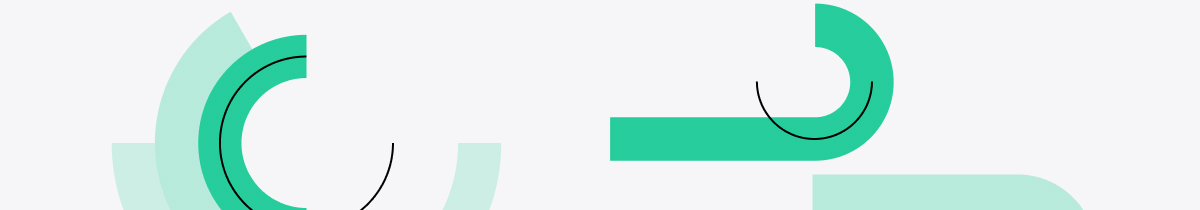
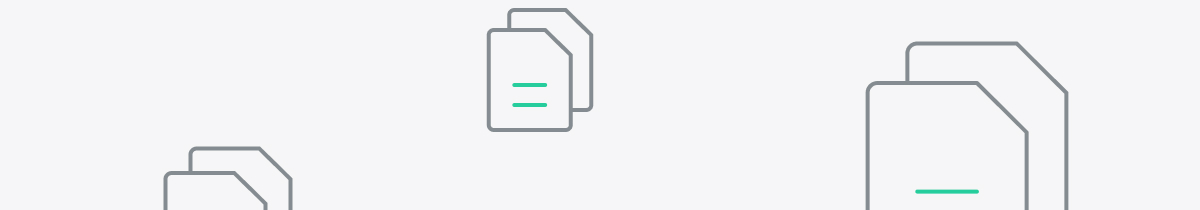
New keyvisual

Changed region(s): [[0.4008, 0.0, 0.925, 1.0], [0.0925, 0.0571, 0.3083, 1.0], [0.37, 0.6571, 0.4317, 1.0]]

diff --git a/build_production/confirmation.html b/build_production/confirmation.html
@@ -1,5 +1,6 @@
 <!DOCTYPE html>
 <html lang="en" xmlns:v="urn:schemas-microsoft-com:vml">
+
 <head>
   <meta charset="utf-8">
   <meta name="x-apple-disable-message-reformatting">
@@ -24,21 +25,26 @@
     .hover-important-text-decoration-underline:hover {
       text-decoration: underline !important
     }
+
     @media (prefers-color-scheme: dark) {
       .dark-bg-slate-1100 {
         background-color: #1A2024 !important
       }
+
       .dark-bg-slate-900 {
         background-color: #48535B !important
       }
+
       .dark-text-white {
         color: #fff !important
       }
     }
+
     @media (max-width: 600px) {
       .sm-p-6 {
         padding: 24px !important
       }
+
       .sm-py-7 {
         padding-top: 28px !important;
         padding-bottom: 28px !important
@@ -46,52 +52,93 @@
     }
   </style>
 </head>
+
 <body style="margin: 0; width: 100%; padding: 0; -webkit-font-smoothing: antialiased; word-break: break-word">
   <div style="display: none">
     Wir haben Ihr Anliegen bearbeitet
-    &#8199;&#65279;&#847; &#8199;&#65279;&#847; &#8199;&#65279;&#847; &#8199;&#65279;&#847; &#8199;&#65279;&#847; &#8199;&#65279;&#847; &#8199;&#65279;&#847; &#8199;&#65279;&#847; &#8199;&#65279;&#847; &#8199;&#65279;&#847; &#8199;&#65279;&#847; &#8199;&#65279;&#847; &#8199;&#65279;&#847; &#8199;&#65279;&#847; &#8199;&#65279;&#847; &#8199;&#65279;&#847; &#8199;&#65279;&#847; &#8199;&#65279;&#847; &#8199;&#65279;&#847; &#8199;&#65279;&#847; &#8199;&#65279;&#847; &#8199;&#65279;&#847; &#8199;&#65279;&#847; &#8199;&#65279;&#847; &#8199;&#65279;&#847; &#8199;&#65279;&#847; &#8199;&#65279;&#847; &#8199;&#65279;&#847; &#8199;&#65279;&#847; &#8199;&#65279;&#847; &#8199;&#65279;&#847; &#8199;&#65279;&#847; &#8199;&#65279;&#847; &#8199;&#65279;&#847; &#8199;&#65279;&#847; &#8199;&#65279;&#847; &#8199;&#65279;&#847; &#8199;&#65279;&#847; &#8199;&#65279;&#847; &#8199;&#65279;&#847; &#8199;&#65279;&#847; &#8199;&#65279;&#847; &#8199;&#65279;&#847; &#8199;&#65279;&#847; &#8199;&#65279;&#847; &#8199;&#65279;&#847; &#8199;&#65279;&#847; &#8199;&#65279;&#847; &#8199;&#65279;&#847; &#8199;&#65279;&#847; &#8199;&#65279;&#847; &#8199;&#65279;&#847; &#8199;&#65279;&#847; &#8199;&#65279;&#847; &#8199;&#65279;&#847; &#8199;&#65279;&#847; &#8199;&#65279;&#847; &#8199;&#65279;&#847; &#8199;&#65279;&#847; &#8199;&#65279;&#847; &#8199;&#65279;&#847; &#8199;&#65279;&#847; &#8199;&#65279;&#847; &#8199;&#65279;&#847; &#8199;&#65279;&#847; &#8199;&#65279;&#847; &#8199;&#65279;&#847; &#8199;&#65279;&#847; &#8199;&#65279;&#847; &#8199;&#65279;&#847; &#8199;&#65279;&#847; &#8199;&#65279;&#847; &#8199;&#65279;&#847; &#8199;&#65279;&#847; &#8199;&#65279;&#847; &#8199;&#65279;&#847; &#8199;&#65279;&#847; &#8199;&#65279;&#847; &#8199;&#65279;&#847; &#8199;&#65279;&#847; &#8199;&#65279;&#847; &#8199;&#65279;&#847; &#8199;&#65279;&#847; &#8199;&#65279;&#847; &#8199;&#65279;&#847; &#8199;&#65279;&#847; &#8199;&#65279;&#847; &#8199;&#65279;&#847; &#8199;&#65279;&#847; &#8199;&#65279;&#847; &#8199;&#65279;&#847; &#8199;&#65279;&#847; &#8199;&#65279;&#847; &#8199;&#65279;&#847; &#8199;&#65279;&#847; &#8199;&#65279;&#847; &#8199;&#65279;&#847; &#8199;&#65279;&#847; &#8199;&#65279;&#847; &#8199;&#65279;&#847; &#8199;&#65279;&#847; &#8199;&#65279;&#847; &#8199;&#65279;&#847; &#8199;&#65279;&#847; &#8199;&#65279;&#847; &#8199;&#65279;&#847; &#8199;&#65279;&#847; &#8199;&#65279;&#847; &#8199;&#65279;&#847; &#8199;&#65279;&#847; &#8199;&#65279;&#847; &#8199;&#65279;&#847; &#8199;&#65279;&#847; &#8199;&#65279;&#847; &#8199;&#65279;&#847; &#8199;&#65279;&#847; &#8199;&#65279;&#847; &#8199;&#65279;&#847; &#8199;&#65279;&#847; &#8199;&#65279;&#847; &#8199;&#65279;&#847; &#8199;&#65279;&#847; &#8199;&#65279;&#847; &#8199;&#65279;&#847; &#8199;&#65279;&#847; &#8199;&#65279;&#847; &#8199;&#65279;&#847; &#8199;&#65279;&#847; &#8199;&#65279;&#847; &#8199;&#65279;&#847; &#8199;&#65279;&#847; &#8199;&#65279;&#847; &#8199;&#65279;&#847; &#8199;&#65279;&#847; &#8199;&#65279;&#847; &#8199;&#65279;&#847; &#8199;&#65279;&#847; &#8199;&#65279;&#847; &#8199;&#65279;&#847; &#8199;&#65279;&#847; &#8199;&#65279;&#847; &#8199;&#65279;&#847; &#8199;&#65279;&#847; &#8199;&#65279;&#847; &#8199;&#65279;&#847; &#8199;&#65279;&#847; &#8199;&#65279;&#847; &#8199;&#65279;&#847; &#8199;&#65279;&#847; &#8199;&#65279;&#847;
+    &#8199;&#65279;&#847; &#8199;&#65279;&#847; &#8199;&#65279;&#847; &#8199;&#65279;&#847; &#8199;&#65279;&#847;
+    &#8199;&#65279;&#847; &#8199;&#65279;&#847; &#8199;&#65279;&#847; &#8199;&#65279;&#847; &#8199;&#65279;&#847;
+    &#8199;&#65279;&#847; &#8199;&#65279;&#847; &#8199;&#65279;&#847; &#8199;&#65279;&#847; &#8199;&#65279;&#847;
+    &#8199;&#65279;&#847; &#8199;&#65279;&#847; &#8199;&#65279;&#847; &#8199;&#65279;&#847; &#8199;&#65279;&#847;
+    &#8199;&#65279;&#847; &#8199;&#65279;&#847; &#8199;&#65279;&#847; &#8199;&#65279;&#847; &#8199;&#65279;&#847;
+    &#8199;&#65279;&#847; &#8199;&#65279;&#847; &#8199;&#65279;&#847; &#8199;&#65279;&#847; &#8199;&#65279;&#847;
+    &#8199;&#65279;&#847; &#8199;&#65279;&#847; &#8199;&#65279;&#847; &#8199;&#65279;&#847; &#8199;&#65279;&#847;
+    &#8199;&#65279;&#847; &#8199;&#65279;&#847; &#8199;&#65279;&#847; &#8199;&#65279;&#847; &#8199;&#65279;&#847;
+    &#8199;&#65279;&#847; &#8199;&#65279;&#847; &#8199;&#65279;&#847; &#8199;&#65279;&#847; &#8199;&#65279;&#847;
+    &#8199;&#65279;&#847; &#8199;&#65279;&#847; &#8199;&#65279;&#847; &#8199;&#65279;&#847; &#8199;&#65279;&#847;
+    &#8199;&#65279;&#847; &#8199;&#65279;&#847; &#8199;&#65279;&#847; &#8199;&#65279;&#847; &#8199;&#65279;&#847;
+    &#8199;&#65279;&#847; &#8199;&#65279;&#847; &#8199;&#65279;&#847; &#8199;&#65279;&#847; &#8199;&#65279;&#847;
+    &#8199;&#65279;&#847; &#8199;&#65279;&#847; &#8199;&#65279;&#847; &#8199;&#65279;&#847; &#8199;&#65279;&#847;
+    &#8199;&#65279;&#847; &#8199;&#65279;&#847; &#8199;&#65279;&#847; &#8199;&#65279;&#847; &#8199;&#65279;&#847;
+    &#8199;&#65279;&#847; &#8199;&#65279;&#847; &#8199;&#65279;&#847; &#8199;&#65279;&#847; &#8199;&#65279;&#847;
+    &#8199;&#65279;&#847; &#8199;&#65279;&#847; &#8199;&#65279;&#847; &#8199;&#65279;&#847; &#8199;&#65279;&#847;
+    &#8199;&#65279;&#847; &#8199;&#65279;&#847; &#8199;&#65279;&#847; &#8199;&#65279;&#847; &#8199;&#65279;&#847;
+    &#8199;&#65279;&#847; &#8199;&#65279;&#847; &#8199;&#65279;&#847; &#8199;&#65279;&#847; &#8199;&#65279;&#847;
+    &#8199;&#65279;&#847; &#8199;&#65279;&#847; &#8199;&#65279;&#847; &#8199;&#65279;&#847; &#8199;&#65279;&#847;
+    &#8199;&#65279;&#847; &#8199;&#65279;&#847; &#8199;&#65279;&#847; &#8199;&#65279;&#847; &#8199;&#65279;&#847;
+    &#8199;&#65279;&#847; &#8199;&#65279;&#847; &#8199;&#65279;&#847; &#8199;&#65279;&#847; &#8199;&#65279;&#847;
+    &#8199;&#65279;&#847; &#8199;&#65279;&#847; &#8199;&#65279;&#847; &#8199;&#65279;&#847; &#8199;&#65279;&#847;
+    &#8199;&#65279;&#847; &#8199;&#65279;&#847; &#8199;&#65279;&#847; &#8199;&#65279;&#847; &#8199;&#65279;&#847;
+    &#8199;&#65279;&#847; &#8199;&#65279;&#847; &#8199;&#65279;&#847; &#8199;&#65279;&#847; &#8199;&#65279;&#847;
+    &#8199;&#65279;&#847; &#8199;&#65279;&#847; &#8199;&#65279;&#847; &#8199;&#65279;&#847; &#8199;&#65279;&#847;
+    &#8199;&#65279;&#847; &#8199;&#65279;&#847; &#8199;&#65279;&#847; &#8199;&#65279;&#847; &#8199;&#65279;&#847;
+    &#8199;&#65279;&#847; &#8199;&#65279;&#847; &#8199;&#65279;&#847; &#8199;&#65279;&#847; &#8199;&#65279;&#847;
+    &#8199;&#65279;&#847; &#8199;&#65279;&#847; &#8199;&#65279;&#847; &#8199;&#65279;&#847; &#8199;&#65279;&#847;
+    &#8199;&#65279;&#847; &#8199;&#65279;&#847; &#8199;&#65279;&#847; &#8199;&#65279;&#847; &#8199;&#65279;&#847;
+    &#8199;&#65279;&#847; &#8199;&#65279;&#847; &#8199;&#65279;&#847; &#8199;&#65279;&#847; &#8199;&#65279;&#847;
   </div>
   <div role="article" aria-roledescription="email" aria-label="Anliegen abgeschlossen" lang="en">
-    <div class="dark-bg-slate-1100" style="background-color: #EAEBEC; font-family: PostGroteskNormal, Helvetica, Arial, ui-sans-serif, system-ui, -apple-system, 'Segoe UI', sans-serif; font-weight: 300">
+    <div class="dark-bg-slate-1100"
+      style="background-color: #EAEBEC; font-family: PostGroteskNormal, Helvetica, Arial, ui-sans-serif, system-ui, -apple-system, 'Segoe UI', sans-serif; font-weight: 300">
       <table align="center" cellpadding="0" cellspacing="0" role="presentation">
         <tr>
           <td style="width: 600px; max-width: 100%">
             <div class="sm-p-6 sm-py-7" style="background-color: #fff; padding: 36px 48px; text-align: left">
-              <a href="https://www.pronovo.ch">
-                <img src="images/pronovo-logo.png" width="142" height="27" alt="Pronovo" style="max-width: 100%; vertical-align: middle; line-height: 1; border: 0">
+              <a href="https://www.pronovo.ch" class="dark-text-white"
+                style="font-size: 24px; font-weight: 300; line-height: 54px; color: #5C656D; text-decoration: none">
+                <img src="http://pronovo.redefine.studio/images/pronovo-logo.png" width="142" height="27" alt="Pronovo"
+                  style="max-width: 100%; vertical-align: middle; line-height: 1; border: 0">
               </a>
             </div>
             <table style="width: 100%;" cellpadding="0" cellspacing="0" role="presentation">
               <tr>
-                <td class="sm-p-6 dark-bg-slate-900" style="background-color: #F6F6F7; padding: 48px; font-size: 19px; color: #000">
-                  <h1 class="dark-text-white" style="margin: 0; padding: 0; font-size: 42px; font-weight: 300; line-height: 54px; color: #000">
+                <td class="sm-p-6 dark-bg-slate-900"
+                  style="background-color: #F6F6F7; padding: 48px; font-size: 19px; color: #000">
+                  <h1 class="dark-text-white"
+                    style="margin: 0; padding: 0; font-size: 42px; font-weight: 300; line-height: 54px; color: #000">
                     Anliegen abgeschlossen
                   </h1>
-                  <div role="separator" style="background-color: #D6D9DA; height: 1px; line-height: 1px; margin: 24px 0">&zwj;</div>
+                  <div role="separator"
+                    style="background-color: #D6D9DA; height: 1px; line-height: 1px; margin: 24px 0">&zwj;</div>
                   <p class="dark-text-white" style="margin: 24px 0 0; line-height: 27px; color: #000">
                     Guten Tag
                   </p>
-                  <p class="dark-text-white" style="margin: 24px 0 0; line-height: 27px; color: #000"> Wir haben Ihr Anliegen mit der Referenz
-                    <a href="#" class="hover-important-text-decoration-underline" style="font-weight: 700; color: #26CD9C; text-decoration: none">
+                  <p class="dark-text-white" style="margin: 24px 0 0; line-height: 27px; color: #000"> Wir haben Ihr
+                    Anliegen mit der Referenz
+                    <a href="#" class="hover-important-text-decoration-underline"
+                      style="font-weight: 700; color: #26CD9C; text-decoration: none">
                       Mustername
-                    </a> und dem
-                    Betreff
-                    <a href="#" class="hover-important-text-decoration-underline" style="font-weight: 700; color: #26CD9C; text-decoration: none;">
+                    </a> und dem Betreff
+                    <a href="#" class="hover-important-text-decoration-underline"
+                      style="font-weight: 700; color: #26CD9C; text-decoration: none;">
                       Musterbetreff
-                    </a> bearbeitet
-                    und geschlossen. Für weitere Fragen in dieser Angelegenheit, geben Sie bitte die
-                    Referenznummer an. Wir möchten uns ständig verbessern. Helfen Sie uns dabei, indem Sie Ihr
-                    Feedback mit uns teilen:
+                    </a> bearbeitet und geschlossen.
                   </p>
+                  <div role="separator"
+                    style="background-color: #D6D9DA; height: 1px; line-height: 1px; margin: 32px 0;">&zwj;</div>
+                  <p class="dark-text-white" style="margin: 24px 0 0; line-height: 27px; color: #000"> Für weitere
+                    Fragen in dieser Angelegenheit, geben Sie bitte die Referenznummer an. Wir möchten uns
+                    ständig verbessern. Helfen Sie uns dabei, indem Sie Ihr Feedback mit uns teilen:</p>
                   <div role="separator">&zwj;</div>
                   <div style="margin: 0; width: 100%; text-align: center"> <!--[if mso]>
 		<v:roundrect arcsize="50%" style="height:48px; mso-wrap-style: none;" stroke="f" fillcolor="#4570B9">
 		<![endif]-->
-                    <a href="#" style="display: inline-block; border-radius: 24px; background-color: #4570B9; padding: 16px 36px; font-size: 14px; font-weight: 600; text-transform: uppercase; line-height: 1; color: #fff; box-shadow: 0px 5px 10px rgba(0, 0, 0, 0.1); text-decoration: none">
+                    <a href="#"
+                      style="display: inline-block; border-radius: 24px; background-color: #4570B9; padding: 16px 36px; font-size: 14px; font-weight: 600; text-transform: uppercase; line-height: 1; color: #fff; box-shadow: 0px 5px 10px rgba(0, 0, 0, 0.1); text-decoration: none">
                       <!--[if mso]>
 				<i style="mso-font-width: -100%; letter-spacing: 32px; mso-text-raise: 17px" hidden>&nbsp;</i>
 			<![endif]-->
-                      <span style="mso-text-raise: 15px ">				Zur Umfrage			</span>
+                      <span style="mso-text-raise: 15px "> Zur Umfrage </span>
                       <!--[if mso]>
 				<i style="mso-font-width: -100%; letter-spacing: 32px;" hidden>&nbsp;</i>
 			<![endif]-->
@@ -104,11 +151,12 @@
                   <div style="margin: 0; width: 100%; text-align: center;"> <!--[if mso]>
 		<v:roundrect arcsize="50%" style="height:48px; mso-wrap-style: none;" stroke="f" fillcolor="#4570B9">
 		<![endif]-->
-                    <a href="#" style="margin-right: 8px; display: inline-block; border-radius: 24px; background-color: #fff; padding: 16px 36px; font-size: 14px; font-weight: 600; text-transform: uppercase; line-height: 1; color: #333F48; box-shadow: 0px 5px 10px rgba(0, 0, 0, 0.1); text-decoration: none">
+                    <a href="#"
+                      style="margin-right: 8px; display: inline-block; border-radius: 24px; background-color: #fff; padding: 16px 36px; font-size: 14px; font-weight: 600; text-transform: uppercase; line-height: 1; color: #333F48; box-shadow: 0px 5px 10px rgba(0, 0, 0, 0.1); text-decoration: none">
                       <!--[if mso]>
 			<i style="mso-font-width: -100%; letter-spacing: 32px; mso-text-raise: 17px;" hidden>&nbsp;</i>
 			<![endif]-->
-                      <span style="mso-text-raise: 15px ">				Zweiter button			</span>
+                      <span style="mso-text-raise: 15px "> Zweiter button </span>
                       <!--[if mso]>
 			<i style="mso-font-width: -100%; letter-spacing: 32px;" hidden>&nbsp;</i>
 			<![endif]-->
@@ -117,31 +165,79 @@
 			<![endif]-->
                     </a>
                   </div>
-                  <p class="dark-text-white" style="margin: 24px 0 0; line-height: 27px; color: #000"> Freundliche Grüsse<br>
+                  <div role="separator"
+                    style="background-color: #D6D9DA; height: 1px; line-height: 1px; margin: 32px 0;">&zwj;</div>
+                  <p class="dark-text-white" style="margin: 24px 0 0; line-height: 27px; color: #000"> Der/die
+                    verantwortliche Netzbetreiber*in Musterfirma wurde gleichzeitig per Mail gebeten, die
+                    notwendigen Daten (Messpunkte, etc.) zu ergänzen, damit die Beglaubigung Ihrerseits erfolgen kann.
+                  </p>
+                  <div style="margin: 0; padding: 0;">
+                    <ul type="disc" style="margin-left: 24px; margin-right: 24px; padding-left: 0; padding-right: 0">
+                      <li class="dark-text-white"
+                        style="margin-bottom: 12px; line-height: 27px; color: #000; list-style-image: url('http://pronovo.redefine.studio/images/bullet.png')">
+                        <span>
+                          Listeneintrag 1
+                        </span>
+                      </li>
+                      <li class="dark-text-white"
+                        style="margin-bottom: 12px; line-height: 27px; color: #000; list-style-image: url('http://pronovo.redefine.studio/images/bullet.png')">
+                        <span>
+                          Listeneintrag 2
+                        </span>
+                      </li>
+                      <li class="dark-text-white"
+                        style="margin-bottom: 12px; line-height: 27px; color: #000; list-style-image: url('http://pronovo.redefine.studio/images/bullet.png')">
+                        <span>
+                          Listeneintrag 3 mit
+                          <a href="#" class="hover-important-text-decoration-underline"
+                            style="font-weight: 700; color: #26CD9C; text-decoration: none;">
+                            Dokument
+                          </a>
+                        </span>
+                      </li>
+                      <li class="dark-text-white"
+                        style="margin-bottom: 12px; line-height: 27px; color: #000; list-style-image: url('http://pronovo.redefine.studio/images/bullet.png')">
+                        <span>
+                          Listeneintrag 4
+                        </span>
+                      </li>
+                    </ul>
+                  </div>
+                  <div role="separator"
+                    style="background-color: #D6D9DA; height: 1px; line-height: 1px; margin: 32px 0;">&zwj;</div>
+                  <p class="dark-text-white" style="margin: 24px 0 0; line-height: 27px; color: #000"> Freundliche
+                    Grüsse<br>
                     Pronovo AG</p>
                 </td>
               </tr>
             </table>
             <table style="width: 100%;" cellpadding="0" cellspacing="0" role="presentation">
               <tr>
-                <td class="dark-bg-slate-900" style="background-color: #F6F6F7; font-size: 19px; color: #000">
-                  <div>
-                    <img src="images/pronovo-keyvisual-2.jpg" width="600" alt style="max-width: 100%; vertical-align: middle; line-height: 1; border: 0;">
-                  </div>
+                <td class="dark-bg-slate-900"
+                  style="width: 100%; overflow: hidden; background-color: #F6F6F7; font-size: 19px; color: #000">
+                  <img src="http://pronovo.redefine.studio/images/pronovo-keyvisual-2.png" width="600" alt
+                    style="max-width: 100%; vertical-align: middle; line-height: 1; border: 0;">
                 </td>
               </tr>
             </table>
-            <table class="sm-p-6" style="width: 100%; background-color: #333F48; padding: 36px 48px" cellpadding="0" cellspacing="0" role="presentation">
+            <table class="sm-p-6" style="width: 100%; background-color: #333F48; padding: 36px 48px" cellpadding="0"
+              cellspacing="0" role="presentation">
               <tr>
-                <td style="text-align: left; font-size: 16px; color: #fff">
-                  <p>Pronovo AG, Dammstrasse 3, CH–5070 Frick</p>
-                  <p>
-                    <a href="tel:+41848014014" class="hover-important-text-decoration-underline" style="margin-right: 8px; color: #fff; text-decoration: none;">+41 848 014 014</a>
-                    <a href="https://www.pronovo.ch" class="hover-important-text-decoration-underline" style="margin-right: 8px; color: #fff; text-decoration: none;">www.pronovo.ch</a>
+                <td style="text-align: left; font-size: 16px; line-height: 27px; color: #fff">
+                  <p>Pronovo AG, Dammstrasse 3, CH–5070 Frick, <br>
+                    <a href="tel:+41848014014" class="hover-important-text-decoration-underline"
+                      style="margin-right: 8px; color: #fff; text-decoration: none;">+41 848 014 014,</a>
+                    <a href="https://www.pronovo.ch" class="hover-important-text-decoration-underline"
+                      style="margin-right: 8px; color: #fff; text-decoration: none;">www.pronovo.ch</a>
                   </p>
                   <div role="separator">&zwj;</div>
                   <p style="font-size: 14px; color: #ADB2B6">Diese Nachricht wurde vom Pronovo Kundenportal gesendet</p>
-                  <p style="font-size: 14px; color: #ADB2B6;"><a href="#" class="hover-important-text-decoration-underline" style="margin-right: 8px; color: #ADB2B6; text-decoration: none;">Benachrichtigungen verwalten</a><a href="#" class="hover-important-text-decoration-underline" style="margin-right: 8px; color: #ADB2B6; text-decoration: none;">Abbestellen</a></p>
+                  <p style="font-size: 14px; color: #ADB2B6;"><a href="#"
+                      class="hover-important-text-decoration-underline"
+                      style="margin-right: 8px; color: #ADB2B6; text-decoration: none;">Benachrichtigungen
+                      verwalten</a><a href="#" class="hover-important-text-decoration-underline"
+                      style="margin-right: 8px; color: #ADB2B6; text-decoration: none;">Abbestellen</a>
+                  </p>
                 </td>
               </tr>
             </table>
@@ -151,4 +247,5 @@
     </div>
   </div>
 </body>
+
 </html>

diff --git a/src/components/footer.html b/src/components/footer.html
@@ -1,14 +1,19 @@
 <table class="px-12 py-9 sm:p-6 w-full bg-slate-1000">
-    <tr>
-      <td class="text-left text-white text-xs">
-        <p>Pronovo AG, Dammstrasse 3, CH–5070 Frick</p>
-        <p>
-            <a href="tel:+41848014014" class="text-white [text-decoration:none] hover:![text-decoration:underline] mr-2">+41 848 014 014</a>
-            <a href="https://www.pronovo.ch" class="text-white [text-decoration:none] hover:![text-decoration:underline] mr-2">www.pronovo.ch</a>
-        </p>
-        <x-spacer class="leading-16" />
-        <p class="text-sm text-slate-400">Diese Nachricht wurde vom Pronovo Kundenportal gesendet</p>
-        <p class="text-sm text-slate-400"><a href="#" class="text-slate-400 [text-decoration:none] hover:![text-decoration:underline] mr-2">Benachrichtigungen verwalten</a><a href="#" class="text-slate-400 [text-decoration:none] hover:![text-decoration:underline] mr-2">Abbestellen</a></p>
-      </td>
-    </tr>
-  </table>
+	<tr>
+		<td class="text-left text-white text-xs leading-normal">
+			<p>Pronovo AG, Dammstrasse 3, CH–5070 Frick, <br>
+				<a href="tel:+41848014014"
+					class="text-white [text-decoration:none] hover:![text-decoration:underline] mr-2">+41 848 014 014,</a>
+				<a href="https://www.pronovo.ch"
+					class="text-white [text-decoration:none] hover:![text-decoration:underline] mr-2">www.pronovo.ch</a>
+			</p>
+			<x-spacer class="leading-16" />
+			<p class="text-sm text-slate-400">Diese Nachricht wurde vom Pronovo Kundenportal gesendet</p>
+			<p class="text-sm text-slate-400"><a href="#"
+					class="text-slate-400 [text-decoration:none] hover:![text-decoration:underline] mr-2">Benachrichtigungen
+					verwalten</a><a href="#"
+					class="text-slate-400 [text-decoration:none] hover:![text-decoration:underline] mr-2">Abbestellen</a>
+			</p>
+		</td>
+	</tr>
+</table>

diff --git a/src/templates/confirmation.html b/src/templates/confirmation.html
@@ -11,11 +11,15 @@ preheader: "Wir haben Ihr Anliegen bearbeitet"
 
 			<x-p>Guten Tag</x-p>
 			<x-p>
-				Wir haben Ihr Anliegen mit der Referenz <x-link link="#">Mustername</x-link> und dem
-				Betreff <x-link link="#">Musterbetreff</x-link> bearbeitet
-				und geschlossen. Für weitere Fragen in dieser Angelegenheit, geben Sie bitte die
-				Referenznummer an. Wir möchten uns ständig verbessern. Helfen Sie uns dabei, indem Sie Ihr
-				Feedback mit uns teilen:
+				Wir haben Ihr Anliegen mit der Referenz <x-link link="#">Mustername</x-link> und dem Betreff <x-link
+					link="#">Musterbetreff</x-link> bearbeitet und geschlossen.
+			</x-p>
+
+			<x-divider space-y="32px" />
+
+			<x-p>
+				Für weitere Fragen in dieser Angelegenheit, geben Sie bitte die Referenznummer an. Wir möchten uns
+				ständig verbessern. Helfen Sie uns dabei, indem Sie Ihr Feedback mit uns teilen:
 			</x-p>
 
 			<x-button href="#">
@@ -26,12 +30,26 @@ preheader: "Wir haben Ihr Anliegen bearbeitet"
 				Zweiter button
 			</x-button>
 
+			<x-divider space-y="32px" />
+
+			<x-p>
+				Der/die verantwortliche Netzbetreiber*in Musterfirma wurde gleichzeitig per Mail gebeten, die
+				notwendigen Daten (Messpunkte, etc.) zu ergänzen, damit die Beglaubigung Ihrerseits erfolgen kann.
+			</x-p>
+
+			<x-list>
+				<x-listitem>Listeneintrag 1</x-listitem>
+				<x-listitem>Listeneintrag 2</x-listitem>
+				<x-listitem>Listeneintrag 3 mit <x-link link="#">Dokument</x-link></x-listitem>
+				<x-listitem>Listeneintrag 4</x-listitem>
+			</x-list>
+
 			<x-p>
 				Freundliche Grüsse<br>
 				Pronovo AG
 			</x-p>
 		</x-content>
-		<x-keyvisual imgsrc="images/pronovo-keyvisual-2.jpg" />
+		<x-keyvisual imgsrc="images/pronovo-keyvisual-2.png" />
 		<x-footer />
 	</x-container>
 </x-main>

diff --git a/src/components/keyvisual.html b/src/components/keyvisual.html
@@ -3,14 +3,12 @@
     module.exports = {
         imgsrc: props.imgsrc,
     }
-  </script>
+</script>
 
 <table class="w-full">
     <tr>
-        <td class="text-base text-black bg-slate-50 dark:bg-slate-900 ">
-        <div>
+        <td class="w-full overflow-hidden text-base text-black bg-slate-50 dark:bg-slate-900 ">
             <img src="{{ imgsrc }}" width="600" alt="">
-        </div>
-    </td>
-</tr>
+        </td>
+    </tr>
 </table>

diff --git a/config.js b/config.js
@@ -23,6 +23,10 @@ module.exports = {
       removeUnusedCSS: {
         removeHTMLComments: false
       },
+      baseURL: {
+        url: 'https://www.pronovo.ch/',
+        tags: ['img'],
+      },
     },
   },
 }

diff --git a/tailwind.config.js b/tailwind.config.js
@@ -71,7 +71,7 @@ module.exports = {
         64: '256px',
         72: '288px',
         80: '320px',
-        96: '384px',
+        96: '384px'
       },
       borderRadius: {
         none: '0px',

diff --git a/src/components/listitem.html b/src/components/listitem.html
@@ -1,0 +1,5 @@
+<li class="mb-3 text-black dark:text-white leading-normal" style="list-style-image: url('images/bullet.png');">
+    <span>
+        <content />
+    </span>
+</li>
